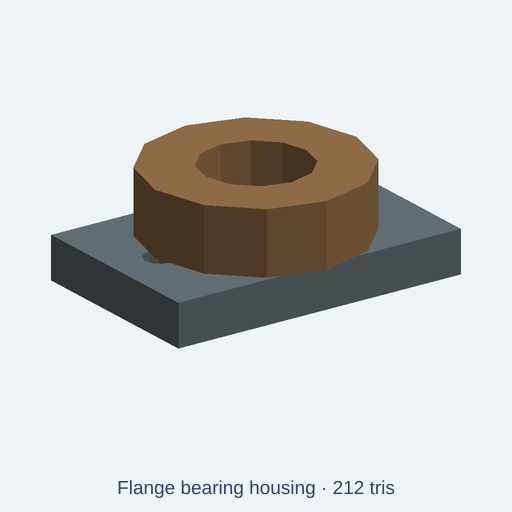
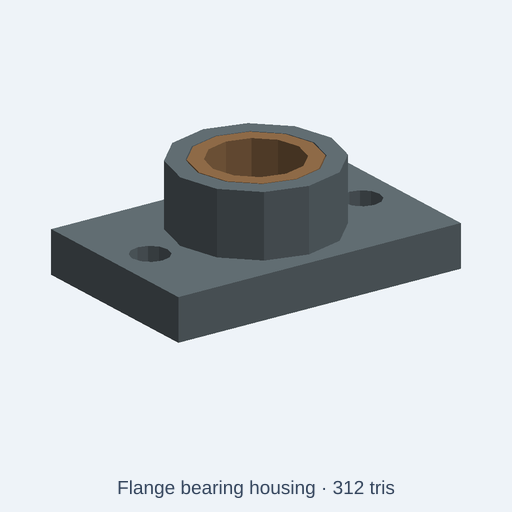
fix(catalog): open flange bearing housing shaft and mounting bores

diff --git a/tests/integration/catalog/flangeBearingHousingFidelity.test.ts b/tests/integration/catalog/flangeBearingHousingFidelity.test.ts
@@ -1,0 +1,106 @@
+// SPDX-License-Identifier: MIT
+// The published flange bearing housing must pass shafts and fasteners through
+// its actual geometry. A merely annular *boss* on a closed base is not enough.
+import { beforeAll, describe, expect, it } from 'vitest';
+import { readFileSync } from 'node:fs';
+import { resolve } from 'node:path';
+import { NodeIO } from '@gltf-transform/core';
+import { initOcct } from '../../../src/kernel/backends/occt/occtBackend';
+import { buildCatalogAssetWithGlb } from '../../../src/agent/catalog/buildCatalog';
+import { runAndExport } from '../../../src/agent/script-runtime/export';
+
+type V = [number, number, number];
+type Tri = [V, V, V];
+const root = resolve(import.meta.dirname, '../../..');
+const slug = 'standard-components/flange-bearing-housing';
+const sourcePath = `catalog/kits/${slug}.kcad.ts`;
+const sub = (a: V, b: V): V => [a[0]-b[0], a[1]-b[1], a[2]-b[2]];
+const dot = (a: V, b: V) => a[0]*b[0]+a[1]*b[1]+a[2]*b[2];
+const cross = (a: V, b: V): V => [a[1]*b[2]-a[2]*b[1], a[2]*b[0]-a[0]*b[2], a[0]*b[1]-a[1]*b[0]];
+function rayHits(tris: Tri[], start: V, dir: V): boolean {
+  return tris.some(v => {
+    const e1 = sub(v[1],v[0]), e2 = sub(v[2],v[0]);
+    const p = cross(dir,e2), det=dot(e1,p);
+    if (Math.abs(det)<1e-9) return false;
+    const t=sub(start,v[0]), u=dot(t,p)/det, q=cross(t,e1);
+    const b=dot(dir,q)/det, distance=dot(e2,q)/det;
+    return u>=-1e-7&&b>=-1e-7&&u+b<=1+1e-7&&distance>1e-6&&distance<100;
+  });
+}
+async function readMeshes(glb: Uint8Array, scale: number): Promise<Map<string,Tri[]>> {
+  const doc=await new NodeIO().readBinary(glb), out=new Map<string,Tri[]>();
+  for(const node of doc.getRoot().listNodes()) {
+    const mesh=node.getMesh(); if(!mesh) continue;
+    const tris:Tri[]=[];
+    for(const primitive of mesh.listPrimitives()) {
+      const positions=primitive.getAttribute('POSITION')!,indices=primitive.getIndices();
+      const length=indices?indices.getCount():positions.getCount();
+      for(let i=0;i<length;i+=3) {
+        tris.push([0,1,2].map(k=>{
+          const point=positions.getElement(indices?indices.getScalar(i+k):i+k,[]) as V;
+          return point.map(v=>v/scale) as V;
+        }) as Tri);
+      }
+    }
+    out.set(node.getName(),tris);
+  }
+  return out;
+}
+function connectedComponents(tris: Tri[]): number {
+  const parent = new Map<string,string>();
+  const find = (key:string):string => {
+    const p=parent.get(key)!;
+    if(p===key)return key;
+    const root=find(p); parent.set(key,root); return root;
+  };
+  for(const triangle of tris) {
+    const keys=triangle.map(point=>point.map(v=>v.toFixed(4)).join(','));
+    for(const key of keys) if(!parent.has(key)) parent.set(key,key);
+    for(const key of keys.slice(1)) parent.set(find(key),find(keys[0]));
+  }
+  return new Set([...parent.keys()].map(find)).size;
+}
+function checkGeometry(parts: Map<string, Tri[]>): void {
+  const all=[...parts.values()].flat();
+  // The old source has an annular boss but a solid plate directly underneath.
+  for(const z of [-10,-2,10]) {
+    expect(rayHits(all,[0,0,z],[0,0,1]),`unobstructed Ø17 shaft passage from Z=${z}`).toBe(false);
+  }
+  expect([...parts.keys()].sort()).toEqual(['one-piece-cast-iron-housing','plain-bronze-sleeve-bearing']);
+  const casting=parts.get('one-piece-cast-iron-housing')!;
+  const sleeve=parts.get('plain-bronze-sleeve-bearing')!;
+  expect(connectedComponents(casting),'one piece housing, not two touching shells').toBe(1);
+  expect(connectedComponents(sleeve),'continuous plain sleeve, not split fragments').toBe(1);
+  for(const x of [-21,21]) {
+    expect(rayHits(all,[x,0,-10],[0,0,1]),`Ø7 mounting bore at X=${x}`).toBe(false);
+    expect(rayHits(casting,[x+4.5,0,-10],[0,0,1]),'solid around mounting bore').toBe(true);
+  }
+  expect(rayHits(sleeve,[9.5,0,-10],[0,0,1]),'bronze sleeve wall present').toBe(true);
+  expect(rayHits(casting,[13,0,-10],[0,0,1]),'cast seat present').toBe(true);
+  const points=casting.flat();
+  for(const [axis,minimum,maximum] of [[0,-28,28],[1,-18,18],[2,0,20]] as const) {
+    expect(Math.min(...points.map(v=>v[axis]))).toBeCloseTo(minimum,1);
+    expect(Math.max(...points.map(v=>v[axis]))).toBeCloseTo(maximum,1);
+  }
+}
+beforeAll(async()=>{await initOcct();},30000);
+describe('flange bearing housing functional geometry',()=>{
+  it('has a through-shaft path, clear fastener bores and separate plain sleeve at all sizes',async()=>{
+    const source=readFileSync(resolve(root,sourcePath),'utf8');
+    const built=await buildCatalogAssetWithGlb(root,sourcePath);
+    expect(built.asset.stats.triangles).toBeLessThanOrEqual(built.asset.triangleBudget);
+    expect(built.asset.stats.minUpM).toBeCloseTo(0,6);
+    for(const [size,scale] of [['standard',1],['compact',0.75],['large',1.25]] as const) {
+      const changed=source.replace("param('size', 'standard'",`param('size', '${size}'`);
+      const exported=size==='standard'?{bytes:built.glb,diagnostics:[]}:await runAndExport({
+        code:changed,fileName:'flange-bearing-housing.kcad.ts',
+        scriptDir:resolve(root,'catalog/kits/standard-components'),format:'glb',
+        options:{format:'glb',style:'lowpoly',lowpoly:{maxTriangles:built.asset.triangleBudget}},
+      });
+      expect(exported.diagnostics.filter(d=>d.severity==='error'),size).toEqual([]);
+      checkGeometry(await readMeshes(exported.bytes,scale));
+    }
+    expect(built.asset.description).toMatch(/Illustrative CC0/i);
+    expect(built.asset.description).toMatch(/Not a ball bearing/i);
+  },90000);
+});

diff --git a/catalog/kits/standard-components/flange-bearing-housing.kcad.ts b/catalog/kits/standard-components/flange-bearing-housing.kcad.ts
@@ -1,9 +1,10 @@
-// Distinctive geometry: Square two-hole bearing mount with a raised round boss and a centered shaft opening
+// Illustrative CC0 cast flange housing with an unobstructed shaft bore,
+// two clear fastener holes, and a separate plain bronze sleeve bearing.
 meta({
   name: 'flange-bearing-housing',
   license: 'CC0-1.0',
   title: 'Flange bearing housing',
-  description: 'Square two-hole bearing mount with a raised round boss and a centered shaft opening Knobs: model size, cast iron, bronze.',
+  description: 'Illustrative CC0 flange bearing housing: one-piece cast housing with a raised circular seat, two usable through-holes, and a separate plain bronze sleeve bearing with an open shaft bore. Not a ball bearing, vendor drawing, rated part, or fit specification. Knobs: model size and display colors.',
   tags: ['bearing housing', 'flange bearing', 'shaft support', 'mount'],
   kit: 'standard-components',
   category: 'attachment',
@@ -22,12 +23,23 @@ presets({
 });
 
 const s = size.value === 'compact' ? 0.75 : size.value === 'large' ? 1.25 : 1;
-const block = (x: number, y: number, z: number, w: number, d: number, h: number) => box(w, d, h).translate(x, y, z);
+// Nominal illustrative dimensions at 1x: 56 x 36 x 20 mm overall.
+// The 15 mm-radius boss clears both Ø7 mounting bores at X=±21 mm.
+// Cast housing, replaceable bronze bushing and the shaft passage are
+// distinct functional structures rather than decorative surface colors.
 const a = assembly('flange-bearing-housing');
-let plate=block(-28*s,-18*s,0,56*s,36*s,8*s);
-for (const x of [-19,19]) plate=plate.subtract(cylinder(10*s,3*s,10).translate(x*s,0,-s));
-a.part('plate',plate.color(castIron));
-let boss=cylinder(12*s,20*s,16).translate(0,0,8*s);
-boss=boss.subtract(cylinder(14*s,10*s,12).translate(0,0,7*s));
-a.part('boss',boss.color(bronze));
+const plate = box(56*s, 36*s, 8*s).translate(-28*s, -18*s, 0);
+const boss = cylinder(12.1*s, 15*s, 24).translate(0, 0, 7.9*s);
+let casting = plate.union(boss);
+// Ø23 through-seat, open from the underside to the upper crown.
+casting = casting.subtract(cylinder(22*s, 11.5*s, 24).translate(0, 0, -s));
+for (const x of [-21, 21]) {
+  casting = casting.subtract(cylinder(10*s, 3.5*s, 20).translate(x*s, 0, -s));
+}
+a.part('one-piece-cast-iron-housing', casting.color(castIron));
+// Replaceable plain bearing: separate solid with nominal 0.2 mm radial
+// clearance to the cast seat, not an invented ball race or rolling element.
+const sleeve = cylinder(20*s, 11.3*s, 24)
+  .subtract(cylinder(22*s, 8.5*s, 24).translate(0, 0, -s));
+a.part('plain-bronze-sleeve-bearing', sleeve.color(bronze));
 return a.model();
